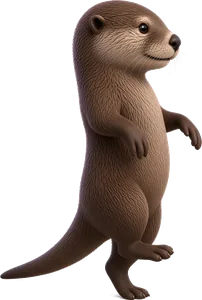
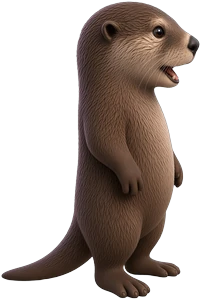
Party: short-legged side-view otter for the moonwalk still (Ken t177u)

Changed region(s): [[0.0, 0.0, 1.0, 1.0], [0.3267, 0.75, 0.3564, 0.78]]

diff --git a/cna/index.html b/cna/index.html
@@ -2,7 +2,7 @@
 <html lang="en">
 <head>
 <meta charset="utf-8">
-<script>window.BUILD = "202611241327"; /* Auto-update: see tools/release.py */
+<script>window.BUILD = "202611241418"; /* Auto-update: see tools/release.py */
 (function () { try { fetch("../version.json?t=" + Date.now(), { cache: "no-store" }).then(function (r) { return r.ok ? r.json() : null; }).then(function (j) {
   if (!j || !j.build || j.build === window.BUILD) return;
   var k = "obReloaded:" + j.build; try { if (sessionStorage.getItem(k)) return; sessionStorage.setItem(k, "1"); } catch (e) {}
@@ -11,12 +11,12 @@
 <meta name="viewport" content="width=device-width, initial-scale=1, viewport-fit=cover">
 <title>CNA Ready Mock-up</title>
 <link rel="stylesheet" href="https://fonts.googleapis.com/css2?family=Atkinson+Hyperlegible:wght@400;700&family=Fredoka:wght@500;600&display=swap">
-<link rel="stylesheet" href="../css/app.css?v=202611241327">
-<link rel="stylesheet" href="../css/evidence.css?v=202611241327">
-<link rel="stylesheet" href="../css/calc.css?v=202611241327">
-<link rel="stylesheet" href="../css/home.css?v=202611241327">
-<link rel="stylesheet" href="../css/views.css?v=202611241327">
-<link rel="stylesheet" href="../css/voice.css?v=202611241327">
+<link rel="stylesheet" href="../css/app.css?v=202611241418">
+<link rel="stylesheet" href="../css/evidence.css?v=202611241418">
+<link rel="stylesheet" href="../css/calc.css?v=202611241418">
+<link rel="stylesheet" href="../css/home.css?v=202611241418">
+<link rel="stylesheet" href="../css/views.css?v=202611241418">
+<link rel="stylesheet" href="../css/voice.css?v=202611241418">
 <link rel="manifest" href="manifest.webmanifest">
 <meta name="theme-color" content="#5A2340">
 <link rel="apple-touch-icon" href="../images/icons/app-cna-180.png">
@@ -28,28 +28,28 @@
   <p class="note">Shown at real phone proportions. On an actual phone it fills the screen.</p>
 </div>
 <script>window.APP_LABEL = "CNA"; window.EXAM = "CNA"; window.START_PAGE = "home"; window.EXAM_LINKS = { RRT: "../", SDS: "../sds/", RPSGT: "../rpsgt/", CNA: "./" }; window.EXAM_WEIGHTS = { "I-A": 14, "I-B": 39, "I-C": 8, "II-A": 11, "II-B": 2, "III-A": 8, "III-B": 7, "III-C": 3, "III-D": 8 };</script>
-<script src="../js/progress.js?v=202611241327"></script>
-<script src="../js/demo/cna.js?v=202611241327"></script>
-<script src="../js/demo.js?v=202611241327"></script>
-<script src="../js/stats.js?v=202611241327"></script>
-<script src="../js/focus.js?v=202611241327"></script>
-<script src="../js/chapters.js?v=202611241327"></script>
-<script src="../js/exams.js?v=202611241327"></script>
-<script src="../js/coach.js?v=202611241327"></script>
-<script src="../js/scales.js?v=202611241327"></script>
-<script src="../js/sleep_scales.js?v=202611241327"></script>
-<script src="../js/cna_scales.js?v=202611241327"></script>
-<script src="../js/acronyms.js?v=202611241327"></script>
-<script src="../js/card_meta.js?v=202611241327"></script>
-<script src="../js/calc.js?v=202611241327"></script>
-<script src="../js/home.js?v=202611241327"></script>
-<script src="../js/views.js?v=202611241327"></script>
-<script src="../js/flash.js?v=202611241327"></script>
-<script src="../js/app.js?v=202611241327"></script>
-<script src="../js/memory_ideas.js?v=202611241327"></script>
-<script src="../js/recall.js?v=202611241327"></script>
-<script src="../js/voice.js?v=202611241327"></script>
-<script src="../js/bin.js?v=202611241327"></script>
-<script src="../js/scrollhint.js?v=202611241327"></script>
+<script src="../js/progress.js?v=202611241418"></script>
+<script src="../js/demo/cna.js?v=202611241418"></script>
+<script src="../js/demo.js?v=202611241418"></script>
+<script src="../js/stats.js?v=202611241418"></script>
+<script src="../js/focus.js?v=202611241418"></script>
+<script src="../js/chapters.js?v=202611241418"></script>
+<script src="../js/exams.js?v=202611241418"></script>
+<script src="../js/coach.js?v=202611241418"></script>
+<script src="../js/scales.js?v=202611241418"></script>
+<script src="../js/sleep_scales.js?v=202611241418"></script>
+<script src="../js/cna_scales.js?v=202611241418"></script>
+<script src="../js/acronyms.js?v=202611241418"></script>
+<script src="../js/card_meta.js?v=202611241418"></script>
+<script src="../js/calc.js?v=202611241418"></script>
+<script src="../js/home.js?v=202611241418"></script>
+<script src="../js/views.js?v=202611241418"></script>
+<script src="../js/flash.js?v=202611241418"></script>
+<script src="../js/app.js?v=202611241418"></script>
+<script src="../js/memory_ideas.js?v=202611241418"></script>
+<script src="../js/recall.js?v=202611241418"></script>
+<script src="../js/voice.js?v=202611241418"></script>
+<script src="../js/bin.js?v=202611241418"></script>
+<script src="../js/scrollhint.js?v=202611241418"></script>
 </body>
 </html>

diff --git a/rpsgt/index.html b/rpsgt/index.html
@@ -2,7 +2,7 @@
 <html lang="en">
 <head>
 <meta charset="utf-8">
-<script>window.BUILD = "202611241327"; /* Auto-update: see tools/release.py */
+<script>window.BUILD = "202611241418"; /* Auto-update: see tools/release.py */
 (function () { try { fetch("../version.json?t=" + Date.now(), { cache: "no-store" }).then(function (r) { return r.ok ? r.json() : null; }).then(function (j) {
   if (!j || !j.build || j.build === window.BUILD) return;
   var k = "obReloaded:" + j.build; try { if (sessionStorage.getItem(k)) return; sessionStorage.setItem(k, "1"); } catch (e) {}
@@ -11,12 +11,12 @@
 <meta name="viewport" content="width=device-width, initial-scale=1, viewport-fit=cover">
 <title>RPSGT Question Pop-up Mock-up</title>
 <link rel="stylesheet" href="https://fonts.googleapis.com/css2?family=Atkinson+Hyperlegible:wght@400;700&family=Fredoka:wght@500;600&display=swap">
-<link rel="stylesheet" href="../css/app.css?v=202611241327">
-<link rel="stylesheet" href="../css/evidence.css?v=202611241327">
-<link rel="stylesheet" href="../css/calc.css?v=202611241327">
-<link rel="stylesheet" href="../css/home.css?v=202611241327">
-<link rel="stylesheet" href="../css/views.css?v=202611241327">
-<link rel="stylesheet" href="../css/voice.css?v=202611241327">
+<link rel="stylesheet" href="../css/app.css?v=202611241418">
+<link rel="stylesheet" href="../css/evidence.css?v=202611241418">
+<link rel="stylesheet" href="../css/calc.css?v=202611241418">
+<link rel="stylesheet" href="../css/home.css?v=202611241418">
+<link rel="stylesheet" href="../css/views.css?v=202611241418">
+<link rel="stylesheet" href="../css/voice.css?v=202611241418">
 <link rel="manifest" href="manifest.webmanifest">
 <meta name="theme-color" content="#123B2E">
 <link rel="apple-touch-icon" href="../images/icons/app-rpsgt-180.png">
@@ -28,28 +28,28 @@
   <p class="note">Shown at real phone proportions. On an actual phone it fills the screen.</p>
 </div>
 <script>window.APP_LABEL = "RPSGT"; window.EXAM = "RPSGT"; window.START_PAGE = "home"; window.EXAM_LINKS = { RRT: "../", SDS: "../sds/", RPSGT: "./", CNA: "../cna/" };</script>
-<script src="../js/progress.js?v=202611241327"></script>
-<script src="../js/demo/rpsgt.js?v=202611241327"></script>
-<script src="../js/demo.js?v=202611241327"></script>
-<script src="../js/stats.js?v=202611241327"></script>
-<script src="../js/focus.js?v=202611241327"></script>
-<script src="../js/chapters.js?v=202611241327"></script>
-<script src="../js/exams.js?v=202611241327"></script>
-<script src="../js/coach.js?v=202611241327"></script>
-<script src="../js/scales.js?v=202611241327"></script>
-<script src="../js/sleep_scales.js?v=202611241327"></script>
-<script src="../js/cna_scales.js?v=202611241327"></script>
-<script src="../js/acronyms.js?v=202611241327"></script>
-<script src="../js/card_meta.js?v=202611241327"></script>
-<script src="../js/calc.js?v=202611241327"></script>
-<script src="../js/home.js?v=202611241327"></script>
-<script src="../js/views.js?v=202611241327"></script>
-<script src="../js/flash.js?v=202611241327"></script>
-<script src="../js/app.js?v=202611241327"></script>
-<script src="../js/memory_ideas.js?v=202611241327"></script>
-<script src="../js/recall.js?v=202611241327"></script>
-<script src="../js/voice.js?v=202611241327"></script>
-<script src="../js/bin.js?v=202611241327"></script>
-<script src="../js/scrollhint.js?v=202611241327"></script>
+<script src="../js/progress.js?v=202611241418"></script>
+<script src="../js/demo/rpsgt.js?v=202611241418"></script>
+<script src="../js/demo.js?v=202611241418"></script>
+<script src="../js/stats.js?v=202611241418"></script>
+<script src="../js/focus.js?v=202611241418"></script>
+<script src="../js/chapters.js?v=202611241418"></script>
+<script src="../js/exams.js?v=202611241418"></script>
+<script src="../js/coach.js?v=202611241418"></script>
+<script src="../js/scales.js?v=202611241418"></script>
+<script src="../js/sleep_scales.js?v=202611241418"></script>
+<script src="../js/cna_scales.js?v=202611241418"></script>
+<script src="../js/acronyms.js?v=202611241418"></script>
+<script src="../js/card_meta.js?v=202611241418"></script>
+<script src="../js/calc.js?v=202611241418"></script>
+<script src="../js/home.js?v=202611241418"></script>
+<script src="../js/views.js?v=202611241418"></script>
+<script src="../js/flash.js?v=202611241418"></script>
+<script src="../js/app.js?v=202611241418"></script>
+<script src="../js/memory_ideas.js?v=202611241418"></script>
+<script src="../js/recall.js?v=202611241418"></script>
+<script src="../js/voice.js?v=202611241418"></script>
+<script src="../js/bin.js?v=202611241418"></script>
+<script src="../js/scrollhint.js?v=202611241418"></script>
 </body>
 </html>

diff --git a/sds/index.html b/sds/index.html
@@ -2,7 +2,7 @@
 <html lang="en">
 <head>
 <meta charset="utf-8">
-<script>window.BUILD = "202611241327"; /* Auto-update: see tools/release.py */
+<script>window.BUILD = "202611241418"; /* Auto-update: see tools/release.py */
 (function () { try { fetch("../version.json?t=" + Date.now(), { cache: "no-store" }).then(function (r) { return r.ok ? r.json() : null; }).then(function (j) {
   if (!j || !j.build || j.build === window.BUILD) return;
   var k = "obReloaded:" + j.build; try { if (sessionStorage.getItem(k)) return; sessionStorage.setItem(k, "1"); } catch (e) {}
@@ -11,12 +11,12 @@
 <meta name="viewport" content="width=device-width, initial-scale=1, viewport-fit=cover">
 <title>SDS Question Pop-up Mock-up</title>
 <link rel="stylesheet" href="https://fonts.googleapis.com/css2?family=Atkinson+Hyperlegible:wght@400;700&family=Fredoka:wght@500;600&display=swap">
-<link rel="stylesheet" href="../css/app.css?v=202611241327">
-<link rel="stylesheet" href="../css/evidence.css?v=202611241327">
-<link rel="stylesheet" href="../css/calc.css?v=202611241327">
-<link rel="stylesheet" href="../css/home.css?v=202611241327">
-<link rel="stylesheet" href="../css/views.css?v=202611241327">
-<link rel="stylesheet" href="../css/voice.css?v=202611241327">
+<link rel="stylesheet" href="../css/app.css?v=202611241418">
+<link rel="stylesheet" href="../css/evidence.css?v=202611241418">
+<link rel="stylesheet" href="../css/calc.css?v=202611241418">
+<link rel="stylesheet" href="../css/home.css?v=202611241418">
+<link rel="stylesheet" href="../css/views.css?v=202611241418">
+<link rel="stylesheet" href="../css/voice.css?v=202611241418">
 <link rel="manifest" href="manifest.webmanifest">
 <meta name="theme-color" content="#14193F">
 <link rel="apple-touch-icon" href="../images/icons/app-sds-180.png">
@@ -28,28 +28,28 @@
   <p class="note">Shown at real phone proportions. On an actual phone it fills the screen.</p>
 </div>
 <script>window.APP_LABEL = "SDS"; window.EXAM = "SDS"; window.START_PAGE = "home"; window.EXAM_LINKS = { RRT: "../", SDS: "./", RPSGT: "../rpsgt/", CNA: "../cna/" };</script>
-<script src="../js/progress.js?v=202611241327"></script>
-<script src="../js/demo/sds.js?v=202611241327"></script>
-<script src="../js/demo.js?v=202611241327"></script>
-<script src="../js/stats.js?v=202611241327"></script>
-<script src="../js/focus.js?v=202611241327"></script>
-<script src="../js/chapters.js?v=202611241327"></script>
-<script src="../js/exams.js?v=202611241327"></script>
-<script src="../js/coach.js?v=202611241327"></script>
-<script src="../js/scales.js?v=202611241327"></script>
-<script src="../js/sleep_scales.js?v=202611241327"></script>
-<script src="../js/cna_scales.js?v=202611241327"></script>
-<script src="../js/acronyms.js?v=202611241327"></script>
-<script src="../js/card_meta.js?v=202611241327"></script>
-<script src="../js/calc.js?v=202611241327"></script>
-<script src="../js/home.js?v=202611241327"></script>
-<script src="../js/views.js?v=202611241327"></script>
-<script src="../js/flash.js?v=202611241327"></script>
-<script src="../js/app.js?v=202611241327"></script>
-<script src="../js/memory_ideas.js?v=202611241327"></script>
-<script src="../js/recall.js?v=202611241327"></script>
-<script src="../js/voice.js?v=202611241327"></script>
-<script src="../js/bin.js?v=202611241327"></script>
-<script src="../js/scrollhint.js?v=202611241327"></script>
+<script src="../js/progress.js?v=202611241418"></script>
+<script src="../js/demo/sds.js?v=202611241418"></script>
+<script src="../js/demo.js?v=202611241418"></script>
+<script src="../js/stats.js?v=202611241418"></script>
+<script src="../js/focus.js?v=202611241418"></script>
+<script src="../js/chapters.js?v=202611241418"></script>
+<script src="../js/exams.js?v=202611241418"></script>
+<script src="../js/coach.js?v=202611241418"></script>
+<script src="../js/scales.js?v=202611241418"></script>
+<script src="../js/sleep_scales.js?v=202611241418"></script>
+<script src="../js/cna_scales.js?v=202611241418"></script>
+<script src="../js/acronyms.js?v=202611241418"></script>
+<script src="../js/card_meta.js?v=202611241418"></script>
+<script src="../js/calc.js?v=202611241418"></script>
+<script src="../js/home.js?v=202611241418"></script>
+<script src="../js/views.js?v=202611241418"></script>
+<script src="../js/flash.js?v=202611241418"></script>
+<script src="../js/app.js?v=202611241418"></script>
+<script src="../js/memory_ideas.js?v=202611241418"></script>
+<script src="../js/recall.js?v=202611241418"></script>
+<script src="../js/voice.js?v=202611241418"></script>
+<script src="../js/bin.js?v=202611241418"></script>
+<script src="../js/scrollhint.js?v=202611241418"></script>
 </body>
 </html>

diff --git a/index.html b/index.html
@@ -2,7 +2,7 @@
 <html lang="en">
 <head>
 <meta charset="utf-8">
-<script>window.BUILD = "202611241327"; /* Auto-update: see tools/release.py */
+<script>window.BUILD = "202611241418"; /* Auto-update: see tools/release.py */
 (function () { try { fetch("version.json?t=" + Date.now(), { cache: "no-store" }).then(function (r) { return r.ok ? r.json() : null; }).then(function (j) {
   if (!j || !j.build || j.build === window.BUILD) return;
   var k = "obReloaded:" + j.build; try { if (sessionStorage.getItem(k)) return; sessionStorage.setItem(k, "1"); } catch (e) {}
@@ -11,12 +11,12 @@
 <meta name="viewport" content="width=device-width, initial-scale=1, viewport-fit=cover">
 <title>CRT/RRT Question Pop-up Mock-up</title>
 <link rel="stylesheet" href="https://fonts.googleapis.com/css2?family=Atkinson+Hyperlegible:wght@400;700&family=Fredoka:wght@500;600&display=swap">
-<link rel="stylesheet" href="css/app.css?v=202611241327">
-<link rel="stylesheet" href="css/evidence.css?v=202611241327">
-<link rel="stylesheet" href="css/calc.css?v=202611241327">
-<link rel="stylesheet" href="css/home.css?v=202611241327">
-<link rel="stylesheet" href="css/views.css?v=202611241327">
-<link rel="stylesheet" href="css/voice.css?v=202611241327">
+<link rel="stylesheet" href="css/app.css?v=202611241418">
+<link rel="stylesheet" href="css/evidence.css?v=202611241418">
+<link rel="stylesheet" href="css/calc.css?v=202611241418">
+<link rel="stylesheet" href="css/home.css?v=202611241418">
+<link rel="stylesheet" href="css/views.css?v=202611241418">
+<link rel="stylesheet" href="css/voice.css?v=202611241418">
 <link rel="manifest" href="manifest.webmanifest">
 <meta name="theme-color" content="#0A4A63">
 <link rel="apple-touch-icon" href="images/icons/app-rrt-180.png">
@@ -29,28 +29,28 @@
 </div>
 <script>window.EXAM = "RRT"; window.START_PAGE = "home"; window.EXAM_LINKS = { RRT: "./", SDS: "sds/", RPSGT: "rpsgt/", CNA: "cna/" };</script>
 <!-- Load order matters: progress.js, stats.js, scales.js and calc.js define functions app.js calls. -->
-<script src="js/progress.js?v=202611241327"></script>
-<script src="js/demo/rrt.js?v=202611241327"></script>
-<script src="js/demo.js?v=202611241327"></script>
-<script src="js/stats.js?v=202611241327"></script>
-<script src="js/focus.js?v=202611241327"></script>
-<script src="js/chapters.js?v=202611241327"></script>
-<script src="js/exams.js?v=202611241327"></script>
-<script src="js/coach.js?v=202611241327"></script>
-<script src="js/scales.js?v=202611241327"></script>
-<script src="js/sleep_scales.js?v=202611241327"></script>
-<script src="js/cna_scales.js?v=202611241327"></script>
-<script src="js/acronyms.js?v=202611241327"></script>
-<script src="js/card_meta.js?v=202611241327"></script>
-<script src="js/calc.js?v=202611241327"></script>
-<script src="js/home.js?v=202611241327"></script>
-<script src="js/views.js?v=202611241327"></script>
-<script src="js/flash.js?v=202611241327"></script>
-<script src="js/app.js?v=202611241327"></script>
-<script src="js/memory_ideas.js?v=202611241327"></script>
-<script src="js/recall.js?v=202611241327"></script>
-<script src="js/voice.js?v=202611241327"></script>
-<script src="js/bin.js?v=202611241327"></script>
-<script src="js/scrollhint.js?v=202611241327"></script>
+<script src="js/progress.js?v=202611241418"></script>
+<script src="js/demo/rrt.js?v=202611241418"></script>
+<script src="js/demo.js?v=202611241418"></script>
+<script src="js/stats.js?v=202611241418"></script>
+<script src="js/focus.js?v=202611241418"></script>
+<script src="js/chapters.js?v=202611241418"></script>
+<script src="js/exams.js?v=202611241418"></script>
+<script src="js/coach.js?v=202611241418"></script>
+<script src="js/scales.js?v=202611241418"></script>
+<script src="js/sleep_scales.js?v=202611241418"></script>
+<script src="js/cna_scales.js?v=202611241418"></script>
+<script src="js/acronyms.js?v=202611241418"></script>
+<script src="js/card_meta.js?v=202611241418"></script>
+<script src="js/calc.js?v=202611241418"></script>
+<script src="js/home.js?v=202611241418"></script>
+<script src="js/views.js?v=202611241418"></script>
+<script src="js/flash.js?v=202611241418"></script>
+<script src="js/app.js?v=202611241418"></script>
+<script src="js/memory_ideas.js?v=202611241418"></script>
+<script src="js/recall.js?v=202611241418"></script>
+<script src="js/voice.js?v=202611241418"></script>
+<script src="js/bin.js?v=202611241418"></script>
+<script src="js/scrollhint.js?v=202611241418"></script>
 </body>
 </html>
